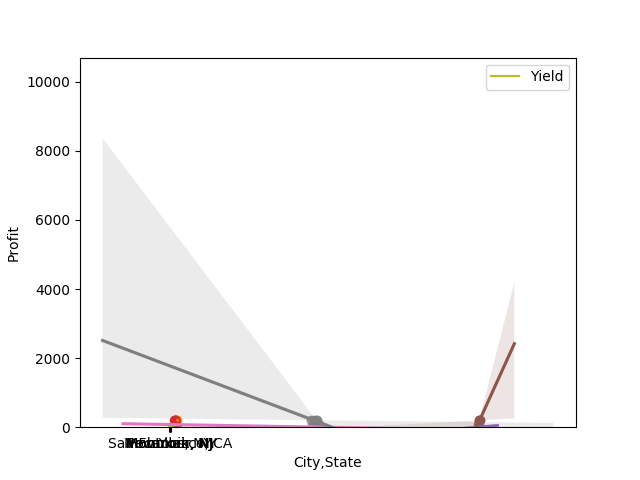
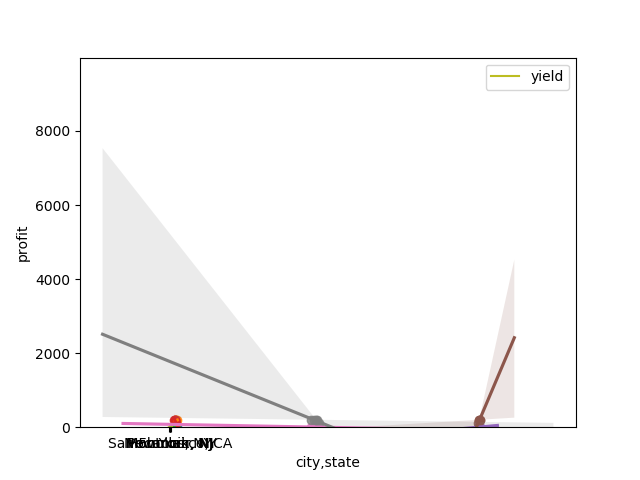
Updated categories to lowercase

diff --git a/plots/PlotTest.py b/plots/PlotTest.py
@@ -28,11 +28,11 @@ data = pd.read_csv(filepath)
 # fig.savefig("price_over_yield")
 
 def fillCrops(data):
-	cropNames = data.Crop.unique()
+	cropNames = data.crop.unique()
 	crops = {}
 	# print(allCrops)
 	for crop in cropNames:
-		crops[crop] = data[data.Crop == crop]
+		crops[crop] = data[data.crop == crop]
 
 	return crops
 
@@ -45,67 +45,67 @@ This void function will save 16 images with the crop name and the graphs in imag
 '''
 def createGraphs(cArray,cropName):
 	# Scatter plot with Yield and Temperature
-	plot1 = sns.regplot(x=cArray['Temperature'], y=cArray['Yield'])
+	plot1 = sns.regplot(x=cArray['temperature'], y=cArray['yield'])
 	fig1 = plot1.get_figure()
 	fig1.savefig("images/"+cropName+"YieldOverTemperature")
 	# Scatter Plot with Profit and Temperature
-	plot2 = sns.regplot(x=cArray['Temperature'], y=cArray['Profit'])
+	plot2 = sns.regplot(x=cArray['temperature'], y=cArray['profit'])
 	fig2 = plot2.get_figure()
 	fig2.savefig("images/"+cropName+"ProfitOverTemperature")
 	# Scatter Plot with Yield and Humidity
-	plot3 = sns.regplot(x=cArray['Humidity'], y=cArray['Yield'])
+	plot3 = sns.regplot(x=cArray['humidity'], y=cArray['yield'])
 	fig3 = plot3.get_figure()
 	fig3.savefig("images/"+cropName+"YieldOverHumidity")
 	# Scatter Plot with Profit and Humidity
-	plot4 = sns.regplot(x=cArray['Humidity'], y=cArray['Profit'])
+	plot4 = sns.regplot(x=cArray['humidity'], y=cArray['profit'])
 	fig4 = plot4.get_figure()
 	fig4.savefig("images/"+cropName+"ProfitOverHumidity")
 	# Scatter Plot with Yield and Pressure
-	plot5 = sns.regplot(x=cArray['Pressure'], y=cArray['Yield'])
+	plot5 = sns.regplot(x=cArray['pressure'], y=cArray['yield'])
 	fig5 = plot5.get_figure()
 	fig5.savefig("images/"+cropName+"YieldOverPressure")
 	# Scatter Plot with Profit and Pressure
-	plot6 = sns.regplot(x=cArray['Pressure'], y=cArray['Profit'])
+	plot6 = sns.regplot(x=cArray['pressure'], y=cArray['profit'])
 	fig6 = plot6.get_figure()
 	fig6.savefig("images/"+cropName+"ProfitOverPressure")
 	# Scatter Plot with Yield and WaterLevel
-	plot7 = sns.regplot(x=cArray['WaterLevel'], y=cArray['Yield'])
+	plot7 = sns.regplot(x=cArray['waterlevel'], y=cArray['yield'])
 	fig7 = plot7.get_figure()
 	fig7.savefig("images/"+cropName+"YieldOverWaterLevel")
 	# Scatter Plot with Profit and WaterLevel
-	plot8 = sns.regplot(x=cArray['WaterLevel'], y=cArray['Profit'])
+	plot8 = sns.regplot(x=cArray['waterlevel'], y=cArray['profit'])
 	fig8 = plot8.get_figure()
 	fig8.savefig("images/"+cropName+"ProfitOverWaterLevel")
 	# Bar Chart with Yield and City, State
-	plot9 = sns.barplot(x=cArray['City,State'], y=cArray['Yield'])
+	plot9 = sns.barplot(x=cArray['city,state'], y=cArray['yield'])
 	fig9 = plot9.get_figure()
 	fig9.savefig("images/"+cropName+"YieldBasedofLocation")
 	# Bar Chart with Profit and City, State
-	plot10 = sns.barplot(x=cArray['City,State'], y=cArray['Profit'])
+	plot10 = sns.barplot(x=cArray['city,state'], y=cArray['profit'])
 	fig10 = plot10.get_figure()
 	fig10.savefig("images/"+cropName+"ProfitBasedofLocation")
 	# KDEPlot with Yield
-	plot11 = sns.kdeplot(data=cArray['Yield'], shade=True)
+	plot11 = sns.kdeplot(data=cArray['yield'], shade=True)
 	fig11 = plot11.get_figure()
 	fig11.savefig("images/"+cropName+"YieldScatterplot")
 	# KDEPlot with Profit
-	plot12 = sns.kdeplot(data=cArray['Profit'], shade=True)
+	plot12 = sns.kdeplot(data=cArray['profit'], shade=True)
 	fig12 = plot12.get_figure()
 	fig12.savefig("images/"+cropName+"ProfitScatterplot")
 	# KDEPlot with Temperature
-	plot13 = sns.kdeplot(data=cArray['Temperature'], shade=True)
+	plot13 = sns.kdeplot(data=cArray['temperature'], shade=True)
 	fig13 = plot13.get_figure()
 	fig13.savefig("images/"+cropName+"TemperatureScatterplot")
 	# KDEPlot with Humidity
-	plot14 = sns.kdeplot(data=cArray['Humidity'], shade=True)
+	plot14 = sns.kdeplot(data=cArray['humidity'], shade=True)
 	fig14 = plot14.get_figure()
 	fig14.savefig("images/"+cropName+"HumidityScatterplot")
 	# KDEPlot with Pressure
-	plot15 = sns.kdeplot(data=cArray['Pressure'], shade=True)
+	plot15 = sns.kdeplot(data=cArray['pressure'], shade=True)
 	fig15 = plot15.get_figure()
 	fig15.savefig("images/"+cropName+"PressureScatterplot")
 	# KDEPlot with WaterLevel
-	plot16 = sns.kdeplot(data=cArray['WaterLevel'], shade=True)
+	plot16 = sns.kdeplot(data=cArray['waterlevel'], shade=True)
 	fig16 = plot16.get_figure()
 	fig16.savefig("images/"+cropName+"WaterLevelScatterplot")
 
